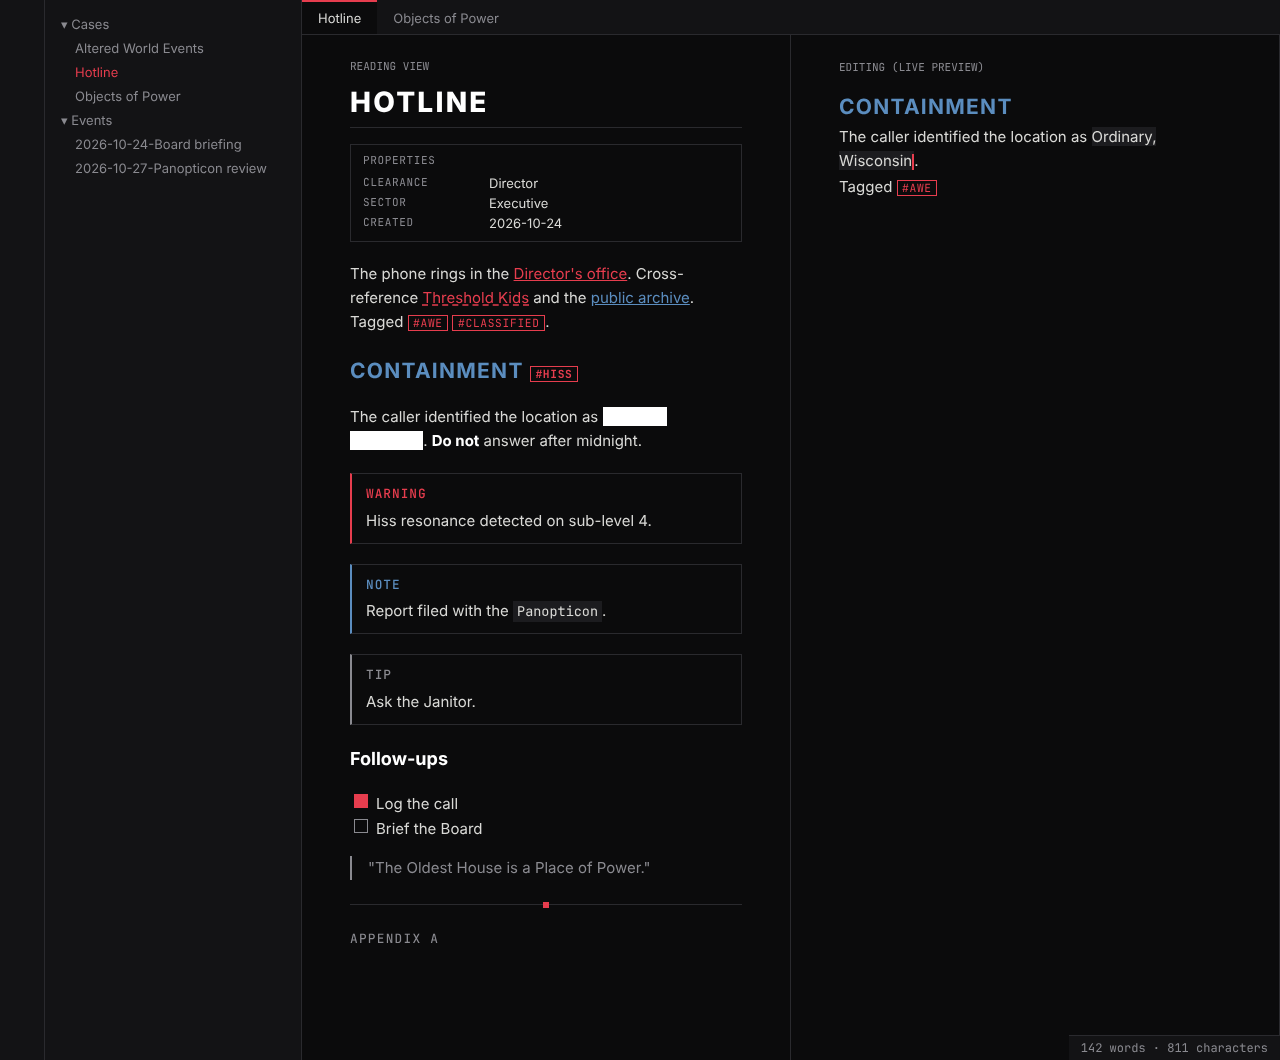
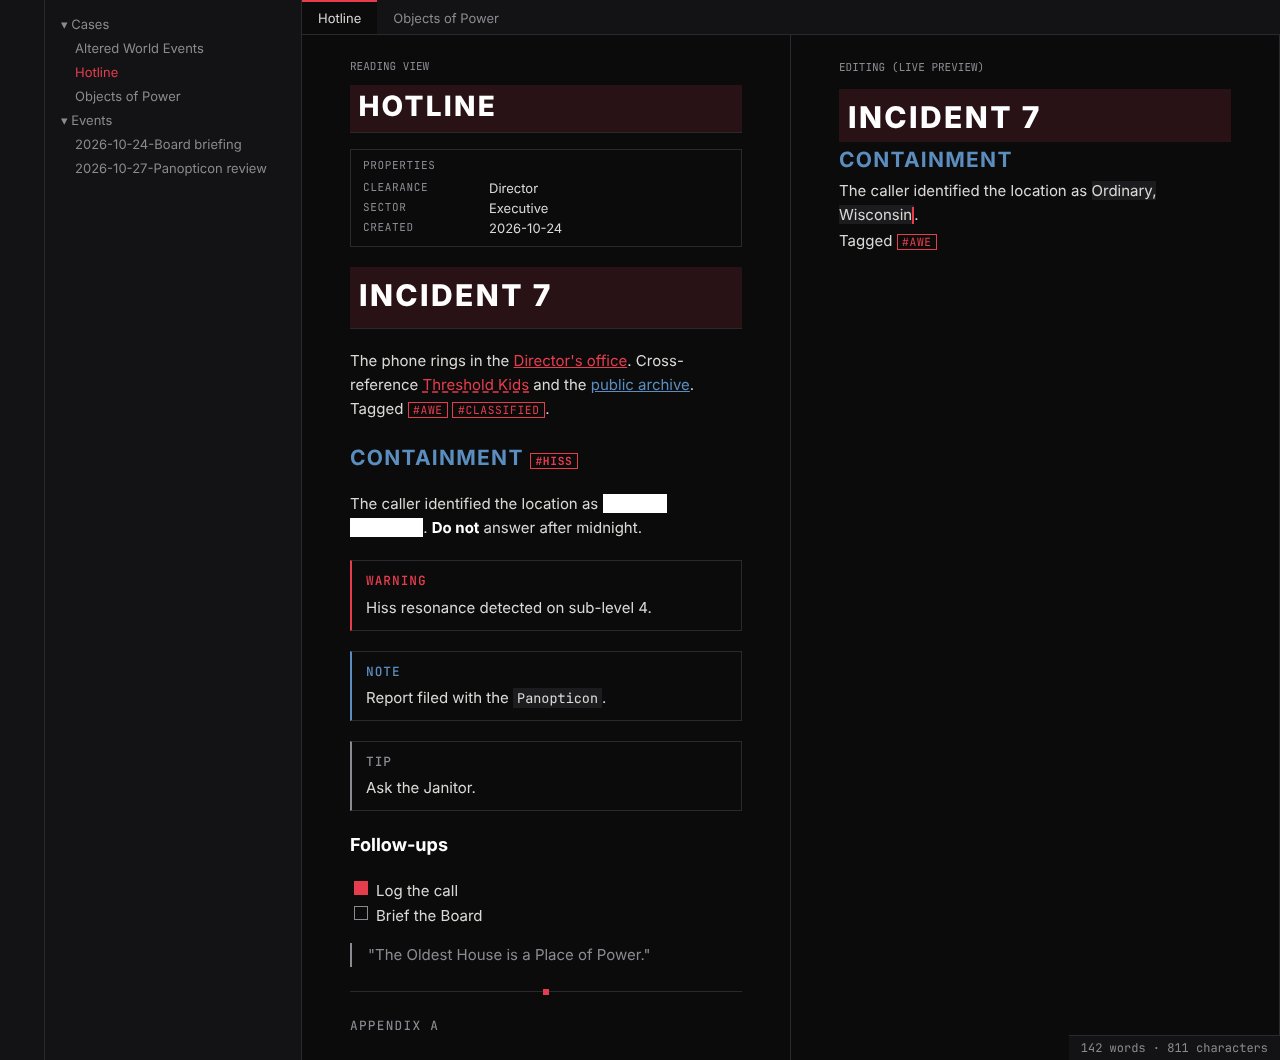
Add a light red tint behind H1 and the inline title
The one deliberate exception to "red is never a large fill": red at 14% in
dark mode and 10% in light mode, behind reading-view H1, the inline title and
H1 lines in the editor. A test keeps the heading text at 7:1 or more on it.

Claude-Session: https://claude.ai/code/session_0183CVB8Nj2aCLdQP4iCXtwj

diff --git a/test/structure.test.js b/test/structure.test.js
@@ -1,7 +1,7 @@
 'use strict';
 const test = require('node:test');
 const assert = require('node:assert/strict');
-const { readTheme, stripComments, parseRules, declarations, varsFor } = require('./css');
+const { readTheme, stripComments, parseRules, declarations, varsFor, contrast } = require('./css');
 
 const css = readTheme();
 const rules = parseRules(css);
@@ -91,4 +91,26 @@ test('active markers', () => {
   const tab = find(/\.workspace-tab-header\.is-active/).find((r) => r.decl['border-top']);
   assert.ok(tab, 'active tab rule with a top border');
   assert.equal(tab.decl['border-top'], '2px solid var(--bureau-red)');
+});
+
+test('H1 sits on a light red tint, still readable', () => {
+  const { hexToRgb } = require('./css');
+  const h1 = find(/\.markdown-rendered h1\b/).find((r) => r.decl['background-color']);
+  assert.ok(h1, 'an H1 rule sets background-color');
+  for (const s of ['.inline-title', '.HyperMD-header-1']) assert.ok(h1.selector.includes(s), s);
+  assert.equal(h1.decl['background-color'], 'var(--bureau-h1-background)');
+
+  for (const mode of ['body.theme-dark', 'body.theme-light']) {
+    const v = varsFor(css, mode);
+    const m = /^rgba\(var\(--bureau-red-rgb\), (0?\.\d+)\)$/.exec(v['--bureau-h1-background'] || '');
+    assert.ok(m, `${mode} --bureau-h1-background is a red rgba`);
+    const alpha = Number(m[1]);
+    assert.ok(alpha > 0 && alpha <= 0.2, `${mode} alpha ${alpha} is light`);
+    // Blend the tint over the page and check the heading text on the result.
+    const red = v['--bureau-red-rgb'].split(',').map(Number);
+    const bg = hexToRgb(v['--background-primary']);
+    const mixed = '#' + bg.map((c, i) => Math.round(c * (1 - alpha) + red[i] * alpha).toString(16).padStart(2, '0')).join('');
+    const ratio = contrast(v['--bureau-strong'], mixed);
+    assert.ok(ratio >= 7, `${mode} H1 text on tint ${mixed} is ${ratio.toFixed(2)}:1`);
+  }
 });

diff --git a/preview/sample.html b/preview/sample.html
@@ -45,6 +45,7 @@
       </div>
 
       <div class="markdown-rendered">
+        <h1>Incident 7</h1>
         <p>The phone rings in the <a class="internal-link">Director's office</a>. Cross-reference
           <a class="internal-link is-unresolved">Threshold Kids</a> and the
           <a class="external-link">public archive</a>. Tagged <a class="tag">#awe</a> <a class="tag">#classified</a>.</p>
@@ -66,6 +67,7 @@
 
     <div class="view-content markdown-source-view is-live-preview">
       <div class="view-label">EDITING (LIVE PREVIEW)</div>
+      <div class="cm-line HyperMD-header-1"><span class="cm-header">Incident 7</span></div>
       <div class="cm-line HyperMD-header-2"><span class="cm-header">Containment</span></div>
       <div class="cm-line">The caller identified the location as <span class="cm-highlight">Ordinary, Wisconsin<span class="cm-cursor"></span></span>.</div>
       <div class="cm-line">Tagged <span class="cm-hashtag tag">#awe</span></div>

diff --git a/theme.css b/theme.css
@@ -36,6 +36,7 @@ body.theme-dark {
   --bureau-red-rgb: 230, 61, 78;
   --bureau-blue-rgb: 91, 141, 191;
   --bureau-grey-rgb: 138, 138, 144;
+  --bureau-h1-background: rgba(var(--bureau-red-rgb), 0.14);
 }
 
 body.theme-light {
@@ -67,6 +68,7 @@ body.theme-light {
   --bureau-red-rgb: 194, 24, 43;
   --bureau-blue-rgb: 45, 95, 143;
   --bureau-grey-rgb: 107, 103, 95;
+  --bureau-h1-background: rgba(var(--bureau-red-rgb), 0.1);
 }
 
 /* Accent roles: literal tokens, so Obsidian's own accent-colour setting cannot
@@ -167,6 +169,16 @@ body.theme-light {
 .inline-title {
   padding-bottom: 0.3em;
   border-bottom: 1px solid var(--background-modifier-border);
+}
+
+/* Top-level headings sit on a light red tint: the one place red is a fill. */
+.markdown-rendered h1,
+.inline-title,
+.HyperMD-header-1 {
+  background-color: var(--bureau-h1-background);
+  padding-top: 0.15em;
+  padding-left: 0.3em;
+  padding-right: 0.3em;
 }
 
 .markdown-rendered h2,

diff --git a/preview/obsidian-base.css b/preview/obsidian-base.css
@@ -81,4 +81,5 @@ input[type=checkbox]:checked { background: var(--checkbox-color); border-color: 
 .cm-line { padding: 1px 0; }
 .cm-highlight { background-color: var(--text-highlight-bg); }
 .cm-cursor { display: inline-block; width: 0; height: 1.1em; border-left: 2px solid var(--caret-color); vertical-align: text-bottom; }
+.HyperMD-header-1 { font-size: var(--h1-size); font-weight: var(--h1-weight); color: var(--h1-color); }
 .HyperMD-header-2 { font-size: var(--h2-size); font-weight: var(--h2-weight); color: var(--h2-color); }

diff --git a/CLAUDE.md b/CLAUDE.md
@@ -8,7 +8,7 @@ typographic, restrained. Comfortable for hours of reading and writing, not just 
 - **Mostly black and white.** Concrete greys, hairline rules, square corners, no shadows, no motion.
 - **Two accents, one job each.** Red points inside the vault (internal links, tags, cursor,
   active file and tab, checkboxes). Blue points outside it (web links), plus H2. Neither is
-  ever a large fill.
+  a large fill, with one deliberate exception: a light red tint behind H1 and the inline title.
 - Never neon, glow, glitch, gradients or rounded "app" chrome.
 - Every text colour is at least 4.5:1 on its background in both modes.
 - Spec: `docs/superpowers/specs/2026-10-24-bureau-theme-design.md`.
@@ -16,7 +16,8 @@ typographic, restrained. Comfortable for hours of reading and writing, not just 
 ## What the theme does (v0.0.1)
 - Dark ("the Oldest House") and light ("paper") palettes in `body.theme-dark` / `body.theme-light`;
   theme tokens `--bureau-strong`, `--bureau-red`, `--bureau-blue` and their `-rgb` forms.
-- Title-card headings (H1, inline title, H2 uppercase), H4–H6 monospace labels.
+- Title-card headings (H1, inline title, H2 uppercase), H4–H6 monospace labels. H1 and the
+  inline title sit on `--bureau-h1-background` (red at 14% dark / 10% light).
 - Properties as a case-file header, tags as stamps, callouts as memos (every built-in type
   remapped to blue, red or grey).
 - `==highlights==` are redaction bars in reading view, revealed on hover/tap/focus; readable

diff --git a/docs/superpowers/specs/2026-10-24-bureau-theme-design.md b/docs/superpowers/specs/2026-10-24-bureau-theme-design.md
@@ -30,7 +30,8 @@ Mostly black and white. Two accents, each with one job:
 | **Blue** (the outside world) | `#5B8DBF` | `#2D5F8F` | H2 headings, external web links |
 
 Rule of thumb: **red points inside the vault, blue points outside it** (plus one heading level).
-Neither accent is ever used as a large fill; red is at most a 2px bar or a stamp border. Exact
+Neither accent is used as a large fill; red is at most a 2px bar or a stamp border, with one
+deliberate exception added later: a light red tint behind H1 and the inline title. Exact
 hex values may be nudged during implementation to keep body-text contrast at least 4.5:1
 (WCAG AA) on its background.
 
@@ -41,7 +42,8 @@ Font stacks (all overridable through Obsidian's own font settings):
 - Metadata and code: `"JetBrains Mono", "IBM Plex Mono", ui-monospace, monospace`.
 
 Heading ladder (the title-card look):
-- H1: uppercase, weight 800, letter-spacing 0.08em, text strong, a 1px rule below.
+- H1: uppercase, weight 800, letter-spacing 0.08em, text strong, a 1px rule below, on a light
+  red tint (`rgba(red, 0.14)` dark, `0.1` light; heading text stays at least 7:1).
 - H2: uppercase, weight 700, letter-spacing 0.06em, **blue**.
 - H3: weight 700, text strong, normal case.
 - H4–H6: monospace, uppercase, small, muted (they read as file labels).

diff --git a/README.md b/README.md
@@ -16,12 +16,12 @@ Mostly black and white, with two accents that each have one job:
 - **Red points inside your vault:** internal links, tags, the cursor, the active file and tab, checkboxes.
 - **Blue points outside it:** web links. Blue is also used for H2 headings.
 
-Neither accent is used as a large fill. Unresolved links are red with a dashed underline.
+Apart from a light tint behind H1, neither accent is used as a large fill. Unresolved links are red with a dashed underline.
 Callouts are remapped to the palette: `note`/`info` blue, warnings and errors red, everything else grey.
 
 ## Details
 
-- **Headings:** H1 and the note title are uppercase title cards; H2 is uppercase and blue;
+- **Headings:** H1 and the note title are uppercase title cards on a light red tint; H2 is uppercase and blue;
   H4–H6 are small monospace labels.
 - **Properties** read as a case-file header; **tags** as classification stamps;
   **callouts** as memos.
